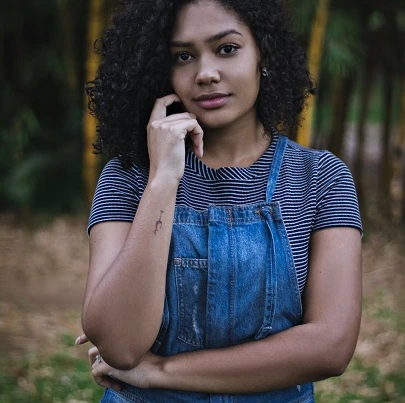
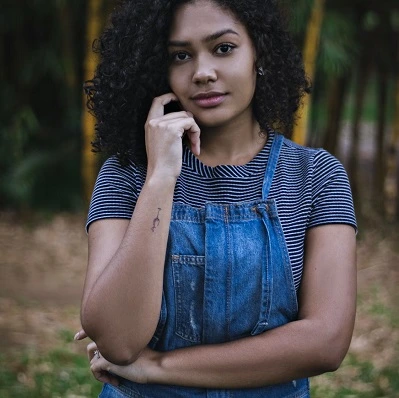
Correction Soutenance
- Ajustement pour converser la qualité des images
- Modifications CSS pour éviter les déformations d'images
-  Modification sémantique pour plus de cohérence
- Ajustement des dimensions en html des  images

diff --git a/Nina-Carducci-Dev-master/assets/style.min.css b/Nina-Carducci-Dev-master/assets/style.min.css
@@ -1,1 +1,1 @@
-#about,#contact .container,.mg-next,.mg-prev,.service,form,header,nav ul{display:flex}.nav-pills .nav-link,nav a{color:#000}.about-me__introduction,.quote,.quote__text{font-style:italic;font-family:Spectral}.quote,.quote__author,.quote__text{font-family:Spectral}.service,header{background-color:#fff}#about,#contact{position:relative;padding-inline:100px;padding-block:100px}.picture.left::before,.picture.right::before{content:" ";width:374px;height:329px;bottom:0;z-index:-1}body{max-width:1920px;margin:auto}*{font-family:Inter;font-style:normal}h1,header h2{font-size:26px}header{position:sticky;top:0;z-index:1000;justify-content:space-between;padding-inline:100px;padding-block:30px;align-items:center}nav ul{list-style-type:none;font-size:14px;margin-bottom:0}nav li{padding-inline:10px}nav a{text-decoration:none}.social-link img{width:20px}#about{background-color:#f6d2b8}.picture.left::before{background-color:#e5975f;position:absolute;left:0}.picture{flex:1;margin:0 20px;z-index:0}.picture img{width:100%}#about-me,.form-container{flex:2}.about-me__text{width:80%;font-size:14px}.about-me__title{margin-top:1em;margin-bottom:60px;font-size:30px}.about-me__introduction{font-weight:800;width:60%;margin-top:0;margin-bottom:.5rem;line-height:1.2;font-size:1rem}.visually-hidden{display:none}.title{text-align:center;padding-block:2em}.gallery .nav{justify-content:center}.nav-pills .nav-link.active,.nav-pills .show>.nav-link{color:#fff;background-color:#807833;border-radius:0}.item-column{position:relative;margin-bottom:0!important;padding:0}.item-column::after{content:"";display:block;padding-bottom:100%}.gallery-item{position:absolute;width:100%;height:100%;object-fit:cover;padding:.5em}.mg-next,.mg-prev{width:30px;height:30px;border-radius:00%;justify-content:center;align-items:center;font-size:24px}form input,form textarea{width:100%;background-color:transparent;border:1px solid;margin-bottom:20px}.quote{width:70%;margin:auto;padding-block:3em}.quote__text{font-weight:300;font-size:2.5rem}.quote__author{font-weight:800;font-size:22px}#services{margin:auto;background-color:#a8d5d8;position:relative}#services .container::before{content:" ";background-color:#1c6474;position:absolute;width:100%;height:30%;bottom:0;left:0;z-index:0}#services .container{justify-content:space-between;display:flex;padding:2em 0}.service{max-width:390px;width:30%;height:337px;padding:1em;flex-direction:column;justify-content:space-between;z-index:1}.service__price p{font-size:calc(1.275rem + .3vw)}#contact{margin:auto;background-color:#d8d3a8}.picture.right::before{background-color:#beb45a;position:absolute;right:0}form{flex-direction:column;width:70%;align-items:flex-start}form input{height:2.5em}form textarea{height:5em;line-height:2.5em;font-size:1.2em}input[type=submit]{background-color:#beb45a;padding:.5em 1em}.form-container h2{font-size:calc(1.3rem + .6vw)}@media all and (max-width:1180px){.picture{flex:2}#about,#contact .container{align-items:center}.about-me__title{margin-top:0;margin-bottom:1em}#about-me p{width:100%}}@media all and (max-width:1000px){.picture.left::before,.picture.right::before{height:30%;position:absolute;z-index:-1;width:100%}#about,#contact .container,#services .container{flex-direction:column}.picture{width:50%}.picture.left::before{bottom:auto;top:0;left:0}.about-me__title{text-align:center;margin-top:1em}.service{width:100%;max-width:100%;height:auto;margin:2em 0}.service__description{margin-bottom:1em}#services .container::before{width:30%;height:100%;bottom:0;right:0;left:auto;z-index:0}#contact .picture.right{margin-top:1em}.picture.right::before{bottom:0;right:0}}@media all and (max-width:650px){header{flex-direction:column;padding-inline:0}header nav,header nav ul{width:100%;padding:0}header nav li{flex:1;padding-block:1em;text-align:center}.picture.left::before,.picture.right::before{height:150px}#services .container{align-items:center}.service{max-width:90%}#about,#contact{padding-inline:2em;padding-block:2em}form{width:100%}.picture{width:80%}}
+#about,header,nav ul{display:flex}.nav-pills .nav-link,nav a{color:#000}.about-me__introduction,.quote,.quote__text{font-style:italic;font-family:Spectral}.quote,.quote__author,.quote__text{font-family:Spectral}.service,header{background-color:#fff}#about,#contact{position:relative;padding-inline:100px;padding-block:100px}.picture.left::before,.picture.right::before{content:" ";width:374px;height:329px;bottom:0;z-index:-1}body{max-width:1920px;margin:auto}*{font-family:Inter;font-style:normal}h1,header h2{font-size:26px}header{position:sticky;top:0;z-index:1000;justify-content:space-between;padding-inline:100px;padding-block:30px;align-items:center}nav ul{list-style-type:none;font-size:14px;margin-bottom:0}nav li{padding-inline:10px}nav a{text-decoration:none}.social-link img{width:20px}#about{background-color:#f6d2b8}.picture.left::before{background-color:#e5975f;position:absolute;left:0}.picture{flex:1;margin:0 20px;z-index:0}.picture img{width:100%}#about-me,.form-container{flex:2}.about-me__text{width:80%;font-size:14px}.about-me__title{margin-top:1em;margin-bottom:60px;font-size:30px}.about-me__introduction{font-weight:800;width:60%;margin-top:0;margin-bottom:.5rem;line-height:1.2;font-size:1rem}.visually-hidden{display:none}#contact .container,.mg-next,.mg-prev,.service,form{display:flex}.title{text-align:center;padding-block:2em}.gallery .nav{justify-content:center}.nav-pills .nav-link.active,.nav-pills .show>.nav-link{color:#fff;background-color:#807833;border-radius:0}.item-column{position:relative;margin-bottom:0!important;padding:0}.item-column::after{content:"";display:block;padding-bottom:100%}.gallery-item{position:absolute;width:100%;height:100%;object-fit:cover;padding:.5em}.mg-next,.mg-prev{width:30px;height:30px;border-radius:00%;justify-content:center;align-items:center;font-size:24px}form input,form textarea{width:100%;background-color:transparent;border:1px solid;margin-bottom:20px}.quote{width:70%;margin:auto;padding-block:3em}.quote__text{font-weight:300;font-size:2.5rem}.quote__author{font-weight:800;font-size:22px}#services{margin:auto;background-color:#a8d5d8;position:relative}#services .container::before{content:" ";background-color:#1c6474;position:absolute;width:100%;height:30%;bottom:0;left:0;z-index:0}#services .container{justify-content:space-between;display:flex;padding:2em 0}.service{max-width:390px;width:30%;height:337px;padding:1em;flex-direction:column;justify-content:space-between;z-index:1}.service__price p{font-size:calc(1.275rem + .3vw)}#contact{margin:auto;background-color:#d8d3a8}.picture.right::before{background-color:#beb45a;position:absolute;right:0}form{flex-direction:column;width:70%;align-items:flex-start}form input{height:2.5em}form textarea{height:5em;line-height:2.5em;font-size:1.2em}input[type=submit]{background-color:#beb45a;padding:.5em 1em}.form-container h2{font-size:calc(1.3rem + .6vw)}header img{object-fit:contain}#about img{height:auto}#carouselExampleIndicators img{height:auto}footer img{object-fit:contain}@media all and (max-width:1180px){.picture{flex:2}#about,#contact .container{align-items:center}.about-me__title{margin-top:0;margin-bottom:1em}#about-me p{width:100%}}@media all and (max-width:1000px){.picture.left::before,.picture.right::before{height:30%;position:absolute;z-index:-1;width:100%}#about,#contact .container,#services .container{flex-direction:column}.picture{width:50%}.picture.left::before{bottom:auto;top:0;left:0}.about-me__title{text-align:center;margin-top:1em}.service{width:100%;max-width:100%;height:auto;margin:2em 0}.service__description{margin-bottom:1em}#services .container::before{width:30%;height:100%;bottom:0;right:0;left:auto;z-index:0}#contact .picture.right{margin-top:1em}.picture.right::before{bottom:0;right:0}}@media all and (max-width:650px){header{flex-direction:column;padding-inline:0}header nav,header nav ul{width:100%;padding:0}header nav li{flex:1;padding-block:1em;text-align:center}.picture.left::before,.picture.right::before{height:150px}#services .container{align-items:center}.service{max-width:90%}#about,#contact{padding-inline:2em;padding-block:2em}form{width:100%}.picture{width:80%}}

diff --git a/Nina-Carducci-Dev-master/index.html b/Nina-Carducci-Dev-master/index.html
@@ -17,7 +17,7 @@
     <meta name="twitter:title" content="Bienvenue sur le site de Nina Card Photographie">
     <meta name="twitter:description" content="Découvrez sur cette page mes prestations et quelques photographies.">
     <meta name="twitter:image" content="https://nina-carducci.github.io/assets/images/nina.png">
-    <meta name="twitter:site" content="@NinaCarducci">
+    <meta name="twitter:site" content="https://nina-carducci.github.io/">
 
     <link rel="preload" href="./assets/bootstrap/bootstrap.min.css" as="style"/>
     <link rel="stylesheet" href="./assets/bootstrap/bootstrap.min.css" />
@@ -73,7 +73,7 @@
               class="social-link"
               href="https://www.instagram.com/ninacarducci.photo/?hl=fr"
               target="_blank"
-              ><img src="assets/images/instagram.webp" alt="Logo Instagram" width="20px" height="17px"/></a
+              ><img src="assets/images/instagram.webp" alt="Logo Instagram" width="20px" height="20px"/></a
           ></li>
         </ul>
       </nav>
@@ -105,7 +105,7 @@
               src="./assets/images/slider/ryoji-iwata-crosswalk.webp"
               class="d-block w-100"
               alt="Photographie d'un homme d'affaires qui traverse un passage piéton"
-              width="1440px"
+              width="1920px"
               height="666px"/>
           </div>
           <div class="carousel-item">
@@ -113,7 +113,7 @@
               src="./assets/images/slider/nicholas-green-concert.webp"
               class="d-block w-100"
               alt="Photo du public lors d'un événement type concert"
-              width="1440px"
+              width="1920px"
               height="666px"/>
           </div>
           <div class="carousel-item">
@@ -121,7 +121,7 @@
               src="./assets/images/slider/edward-cisneros-wedding.webp"
               class="d-block w-100"
               alt="Photo d'un couple qui s'embrasse lors d'un mariage"
-              width="1440px"
+              width="1920px"
               height="666px"/>
           </div>
         </article>
@@ -146,7 +146,7 @@
       </section>
 	    <section id="about">
 		    <article class="picture left">
-			    <img src="./assets/images/nina.webp" alt="Photo portrait de Nina Carducci" width="400px" height="398px"/>
+			    <img src="./assets/images/nina.webp" alt="Photo portrait de Nina Carducci" width="400px" height="400px"/>
 		    </article>
 		    <article id="about-me">
 			    <h2 class="about-me__title">A propos de moi</h2>
@@ -289,7 +289,7 @@
 		      </article>
         </div>
 	    </section>
-      <section class="quote">
+      <aside class="quote">
         <figure>
           <blockquote>
             <p class="quote__text">De manière inconsciente, je crois, je guette un regard, une
@@ -298,7 +298,7 @@
           </blockquote>
           <figcaption class="quote__author">- Richard Avedon</figcaption>
         </figure>
-	    </section>
+      </aside>
     </main>
     <footer id="contact">
       <section class="container">

diff --git a/Nina-Carducci-Dev-master/assets/style.css b/Nina-Carducci-Dev-master/assets/style.css
@@ -109,7 +109,7 @@ nav a {
   font-size: 1rem;
 }
 .visually-hidden {
-  display: none;
+ display: none;
 }
 #contact .container,
 .mg-next,
@@ -238,6 +238,19 @@ input[type="submit"] {
 .form-container h2 {
   font-size: calc(1.3rem + 0.6vw);
 }
+header img{
+  object-fit:contain;
+}
+#about img{
+  height: auto;
+}
+#carouselExampleIndicators img{
+  height: auto;
+}
+footer img{
+  object-fit: contain;
+}
+
 @media all and (max-width: 1180px) {
   .picture {
     flex: 2;
